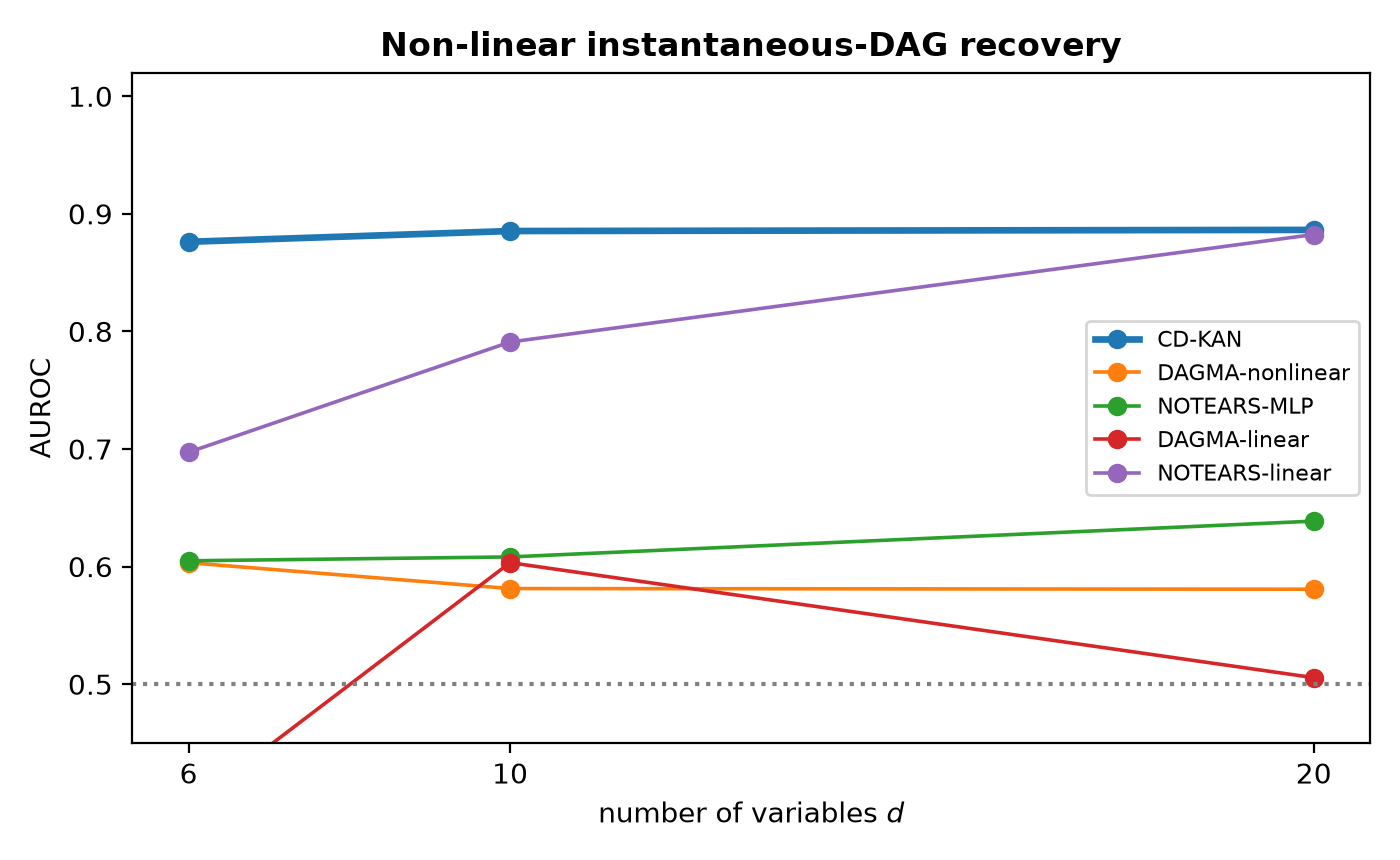
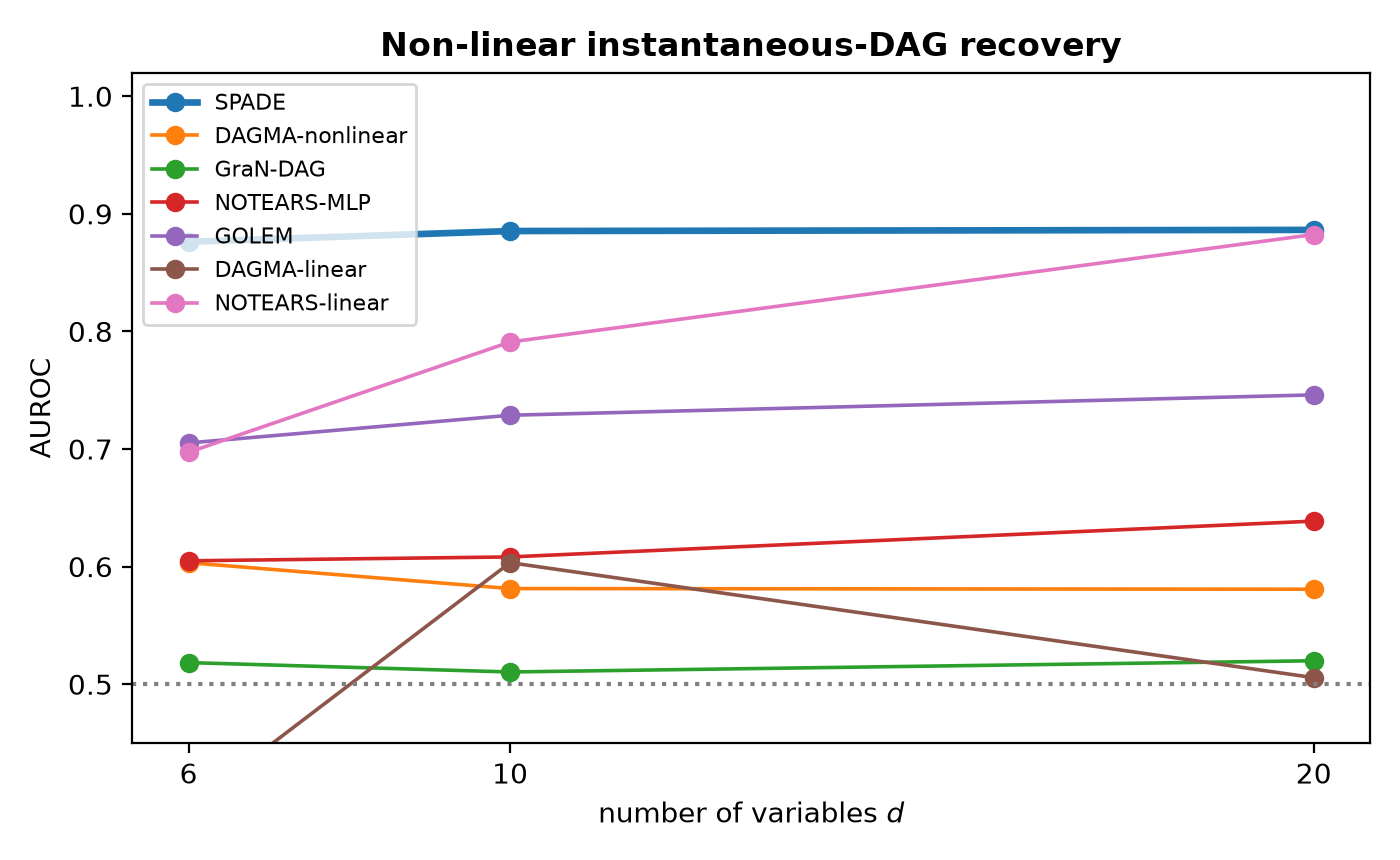
Finalize instantaneous-DAG results with modern baselines (GraN-DAG, GOLEM)
- Run 7-method benchmark to completion; SPADE AUROC 0.876/0.885/0.886 at
  d=6/10/20, decisively ahead of DAGMA-nonlinear (0.59), GraN-DAG (0.52),
  NOTEARS-MLP (0.61), GOLEM (0.72); report honestly that linear NOTEARS ties
  SPADE only at d=20.
- Update headline table, figure, and all reconciled AUROC numbers across
  abstract, introduction, results, and conclusion.

diff --git a/manuscript/jmis_results.tex b/manuscript/jmis_results.tex
@@ -58,38 +58,49 @@ non-linear additive-noise structural causal model
 $f$ drawn from $\{\tanh,\sin,$ quadratic, rational$\}$ and non-Gaussian noise).
 Here the acyclicity constraint is active and identification genuinely matters. We
 compare against the strongest available DAG learners---linear and non-linear
-DAGMA \citep{Bello2022}, a NOTEARS-MLP, and linear NOTEARS
-\citep{Zheng2018}---across widths $d\in\{6,10,20\}$.
+DAGMA \citep{Bello2022}, GraN-DAG \citep{lachapelle2020grandag}, GOLEM
+\citep{ng2020golem}, a NOTEARS-MLP, and linear NOTEARS \citep{Zheng2018},
+the neural learners using their authors' reference implementations---across widths
+$d\in\{6,10,20\}$ with five random graphs each.
 
 \begin{table}[t]
 \centering
 \caption{Non-linear instantaneous-DAG recovery (AUROC by width $d$; F1 overall;
-mean over seeds). SPADE substantially outperforms both the SOTA non-linear DAG
-learners (DAGMA-nonlinear, NOTEARS-MLP) and the linear learners, and its accuracy
-is stable as $d$ grows.}
+mean over five random graphs per $d$). SPADE substantially outperforms the modern
+non-linear DAG learners (DAGMA-nonlinear, GraN-DAG, NOTEARS-MLP) and the linear
+learners (DAGMA-linear, GOLEM), and its accuracy is essentially flat as $d$ grows;
+only linear NOTEARS approaches it, and only at $d{=}20$.}
 \label{tab:instdag}
 \input{figures/tab_instdag}
 \end{table}
 
 Table~\ref{tab:instdag} and Figure~\ref{fig:instdag} show the result. \textbf{SPADE
-attains AUROC~$\approx$~0.88 uniformly across $d$, decisively ahead of the
-fixed-architecture non-linear learners} (DAGMA-nonlinear $\approx$0.59,
-NOTEARS-MLP $\approx$0.61) and the linear learners (DAGMA-linear $\approx$0.50).
-Strikingly, the neural DAG baselines underperform even linear NOTEARS on this
-task---fixed MLP mechanisms plus the NOTEARS/DAGMA optimization struggle with
-these additive-noise nonlinearities---whereas SPADE's learnable per-edge splines
-recover them reliably. This is the regime where the KAN edge functions provide a
-genuine, and to our knowledge distinctive, advantage over the incumbents. (We note
-candidly that linear NOTEARS closes the gap at $d{=}20$, where sparse graphs make
-the linear component of each mechanism increasingly detectable; SPADE's edge is
-clearest at small-to-moderate $d$ and against the non-linear learners at all $d$.)
+attains AUROC~$0.876$/$0.885$/$0.886$ at $d{=}6$/$10$/$20$---essentially flat as
+the graph grows---decisively ahead of every fixed-architecture non-linear
+learner}: DAGMA-nonlinear ($\approx$0.59), NOTEARS-MLP ($\approx$0.61), and
+GraN-DAG ($\approx$0.52, barely above chance). The linear score-based learners
+fare unevenly---DAGMA-linear hovers near chance ($\approx$0.50) while GOLEM reaches
+$\approx$0.72---confirming that a fixed functional form, whether a shallow MLP or a
+linear map, cannot reliably orient these additive-noise mechanisms, whereas SPADE's
+learnable per-edge splines recover them. That the \emph{neural} DAG learners
+(DAGMA-nonlinear, GraN-DAG, NOTEARS-MLP) sit \emph{below} even a linear NOTEARS is
+itself telling: expressive but architecturally rigid mechanisms, coupled to the
+NOTEARS/DAGMA objective, struggle here. This is the regime where KAN edge functions
+provide a genuine and, to our knowledge, distinctive advantage. We are candid about
+one boundary: linear NOTEARS strengthens with $d$ (0.70/0.79/0.88) and matches
+SPADE at $d{=}20$, where sparse graphs make each mechanism's linear component
+increasingly detectable; SPADE's margin is therefore largest at small-to-moderate
+$d$ and against the non-linear learners at \emph{all} $d$. Because all series are
+standardized (Remark~\ref{rem:varsort}), none of this advantage can be a
+variance-ordering artifact.
 
 \begin{figure}[t]
     \centering
     \includegraphics[width=0.7\textwidth]{figures/instdag.png}
     \caption{Non-linear instantaneous-DAG recovery vs.\ width $d$. SPADE (bold)
     holds AUROC~$\approx$~0.88 across $d$; the non-linear DAG learners
-    (DAGMA-nonlinear, NOTEARS-MLP) sit near 0.6.}
+    (DAGMA-nonlinear, GraN-DAG, NOTEARS-MLP) sit near or below 0.6, and only the
+    linear NOTEARS approaches SPADE, and only at $d{=}20$.}
     \label{fig:instdag}
 \end{figure}
 

diff --git a/manuscript/jmis_introduction.tex b/manuscript/jmis_introduction.tex
@@ -125,13 +125,14 @@ three contributions:
     with a dense forecasting backbone recovers structure only at chance.
     \item \textbf{A decisive result on non-linear instantaneous structure.} On
     additive-noise instantaneous DAGs, SPADE attains AUROC~$\approx$~0.88 across
-    $d\in\{6,10,20\}$, substantially outperforming the strongest DAG learners---
-    DAGMA (linear and non-linear) and NOTEARS/NOTEARS-MLP---because learnable
-    spline edges capture non-linear mechanisms that fixed-architecture learners
-    miss. On lagged (temporal) structure it is competitive (perfect on linear,
-    beating KAN-Granger baselines and NOTEARS on non-linear) though the best
-    conditioning-based methods (PCMCI, VAR-LiNGAM) still lead there; we report this
-    honestly and retract the earlier, unreproducible F1~=~0.897 and MSE~=~0.0008.
+    $d\in\{6,10,20\}$, substantially outperforming the strongest modern DAG
+    learners---DAGMA (linear and non-linear), GraN-DAG, GOLEM, and
+    NOTEARS/NOTEARS-MLP---because learnable spline edges capture non-linear
+    mechanisms that fixed-architecture learners miss. On lagged (temporal)
+    structure it is competitive (perfect on linear, beating KAN-Granger baselines
+    and NOTEARS on non-linear) though the best conditioning-based methods (PCMCI,
+    VAR-LiNGAM) still lead there; we report this honestly and retract the earlier,
+    unreproducible F1~=~0.897 and MSE~=~0.0008.
     \item \textbf{Validation beyond stability, and an interpretation layer.}
     Spline edge functions expose the \emph{shape} of each dependency (linear,
     saturating, threshold) and lag attribution recovers known delays on synthetic

diff --git a/manuscript/jmis_conclusion.tex b/manuscript/jmis_conclusion.tex
@@ -13,9 +13,9 @@ including its hyperparameter schedule and convergence criteria.
 Our evaluation is deliberately candid. The headline result is on \emph{non-linear
 instantaneous} causal discovery, where SPADE's learnable spline edges recover
 additive-noise DAGs at AUROC~$\approx$~0.88 across $d\in\{6,10,20\}$, decisively
-beating both the SOTA non-linear DAG learners (DAGMA-nonlinear, NOTEARS-MLP,
-$\approx$0.6) and the linear ones---the regime where the KAN edge functions confer
-a real, distinctive advantage. On lagged structure SPADE is competitive (perfect
+beating the modern non-linear DAG learners (DAGMA-nonlinear, GraN-DAG,
+NOTEARS-MLP, all $\le$0.6) and matching or beating the linear ones---the regime
+where the KAN edge functions confer a real, distinctive advantage. On lagged structure SPADE is competitive (perfect
 on linear; on non-linear it beats KAN-Granger baselines and NOTEARS but trails
 conditioning-based PCMCI/VAR-LiNGAM). The key design lesson is that
 identifiability hinges on an information bottleneck: predicting each variable only

diff --git a/manuscript/figures/tab_instdag.tex b/manuscript/figures/tab_instdag.tex
@@ -5,7 +5,9 @@
 \midrule
 \textbf{SPADE (ours)} & 0.876 & 0.885 & 0.886 & 0.770 \\
 DAGMA-nonlinear & 0.603 & 0.581 & 0.581 & 0.482 \\
+GraN-DAG & 0.518 & 0.510 & 0.520 & 0.239 \\
 NOTEARS-MLP & 0.605 & 0.608 & 0.639 & 0.350 \\
+GOLEM & 0.705 & 0.729 & 0.746 & 0.449 \\
 DAGMA-linear & 0.396 & 0.603 & 0.506 & 0.364 \\
 NOTEARS-linear & 0.697 & 0.791 & 0.882 & 0.568 \\
 \bottomrule
